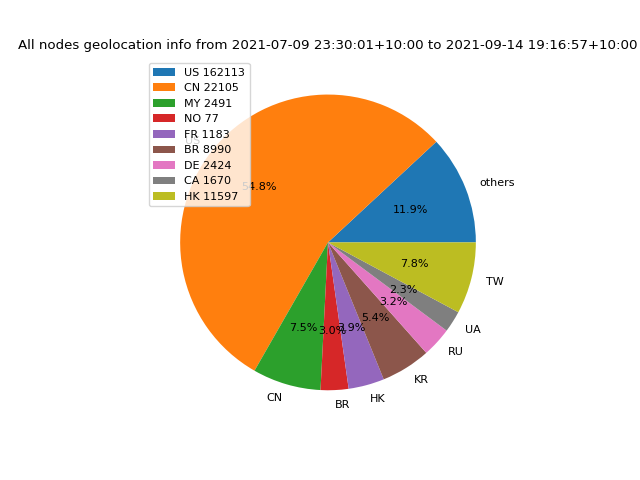
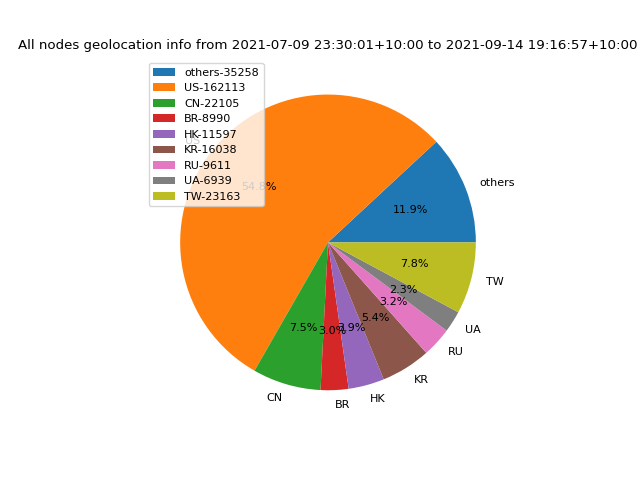
Fix legend

Changed region(s): [[0.2812, 0.125, 0.4375, 0.4375]]

diff --git a/analysis/mixed/plot_geo_all.py b/analysis/mixed/plot_geo_all.py
@@ -2,7 +2,6 @@ import psycopg2
 import toml
 import matplotlib.pyplot as plt
 from lib import node_time, node_classification, node_geolocation
-import numpy as np
 
 
 config = toml.load("./db.toml")['psql']
@@ -35,9 +34,7 @@ for key, val in counts.items():
 {k: v for k, v in sorted(countsTrim.items(), key=lambda item: item[1])}
 # Plot
 plt.rc('font', size=8)
-colormap = plt.cm.nipy_spectral
-colors = [colormap(i) for i in np.linspace(0, 1, len(countsTrim))]
-patches, texts, _ = plt.pie(countsTrim.values(), labels=countsTrim.keys(), autopct="%.1f%%", colors=colors)
+patches, texts, _ = plt.pie(countsTrim.values(), labels=countsTrim.keys(), autopct="%.1f%%")
 labels = []
 for key in countsTrim.keys():
     labels.append("{}-{}".format(key, countsTrim[key]))
